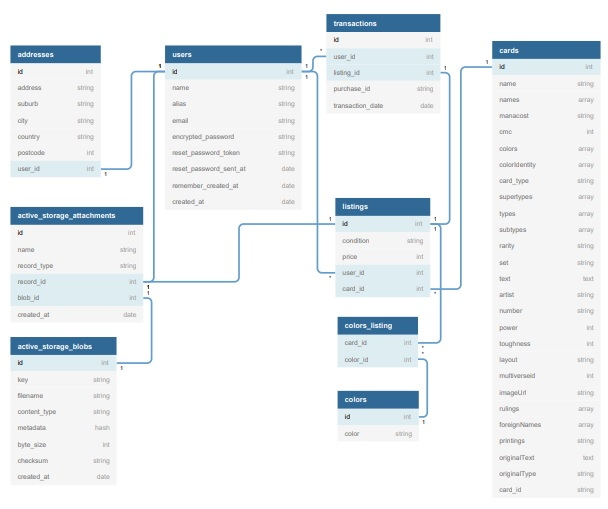
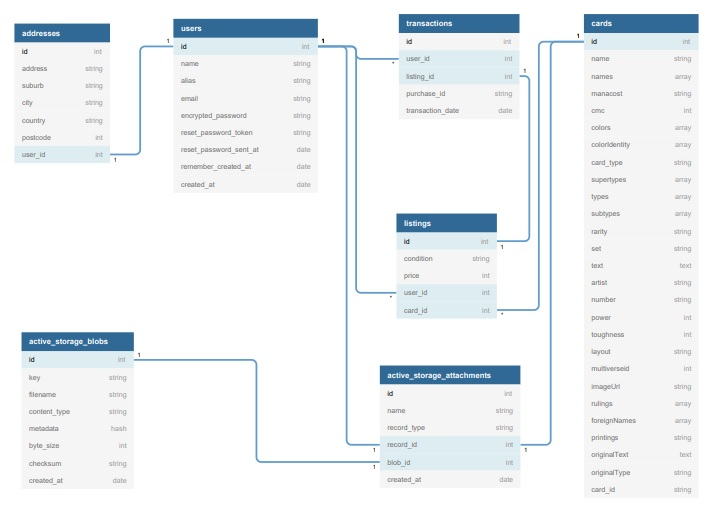
removed colors_listing join table from design

diff --git a/app/models/user.rb b/app/models/user.rb
@@ -5,4 +5,5 @@ class User < ApplicationRecord
          :recoverable, :rememberable, :validatable
   has_one :address
   has_many :listings
+  has_one_attached :image
 end

diff --git a/app/models/card.rb b/app/models/card.rb
@@ -1,3 +1,4 @@
 class Card < ApplicationRecord
     has_many :listings
+    has_one_attached :image
 end

diff --git a/README.md b/README.md
@@ -161,14 +161,6 @@ The relationship between users and listings is:
 - <strong>a listing belongs to a user
 - a user has many listings</strong>
 
-The colors table holds a list of the five colors used in Magic, as well as colorless. This table is used to provide information about the color of individual listings rather than add six additional attributes to each listing. Colors is connected to listings by the join table colors_listing.
-
-The relationships between colors and listings are:
-- <strong>a listing has many colors_listings
-- a listing has many colors, through colors_listings
-- a color has many colors_listings
-- a color has many cards, through colors_listings</strong>
-
 The cards table exists to hold all the information for all Magic cards in existence. The reason this table was created was that the magicthegathering.io API, which is used to retrieve records of individual cards, was created as a hobby project by an individual programmer. Therefore the reliability of the service is uncertain. To mitigate this, the entire set of Magic cards has been downloaded to our own database. This improves both the query speed because we will no longer be waiting for responses from an API, and reliability since we are are hosting the database ourselves.
 
 The relationship between cards and listings is:
